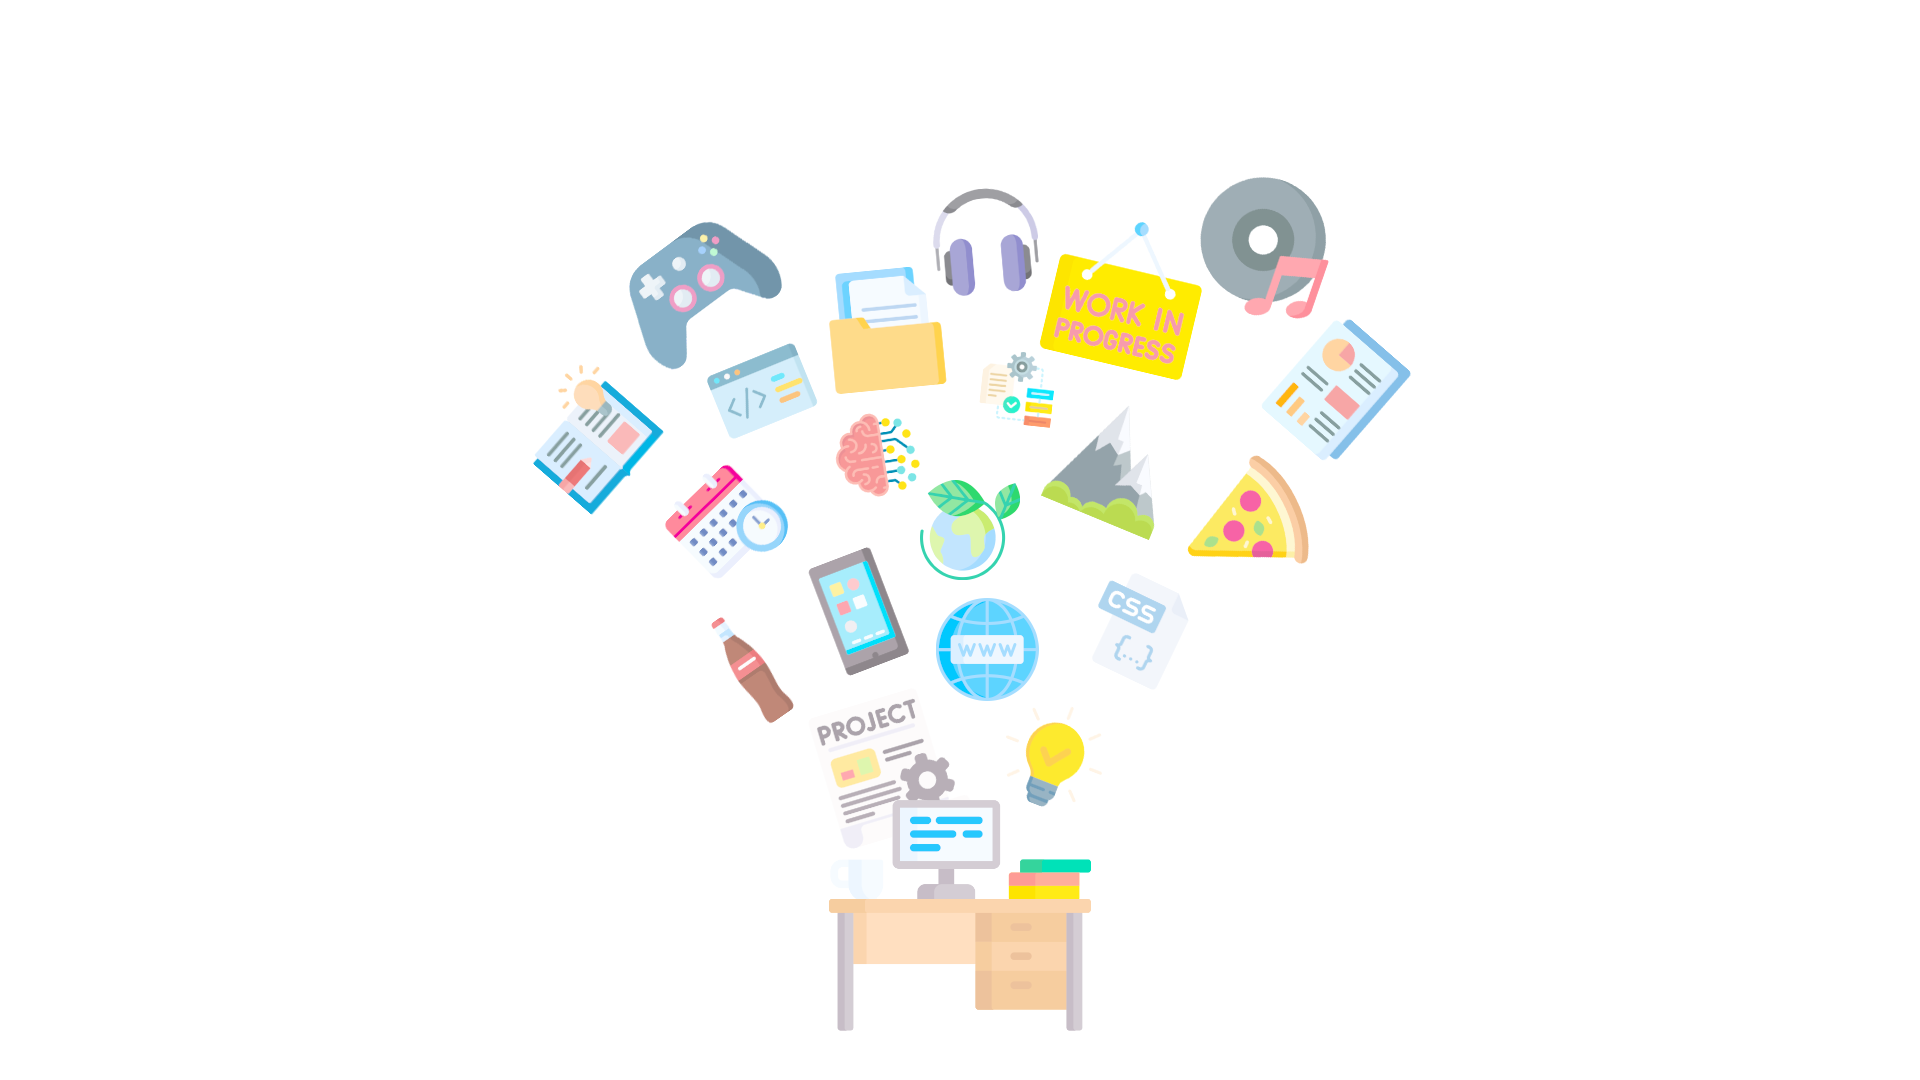
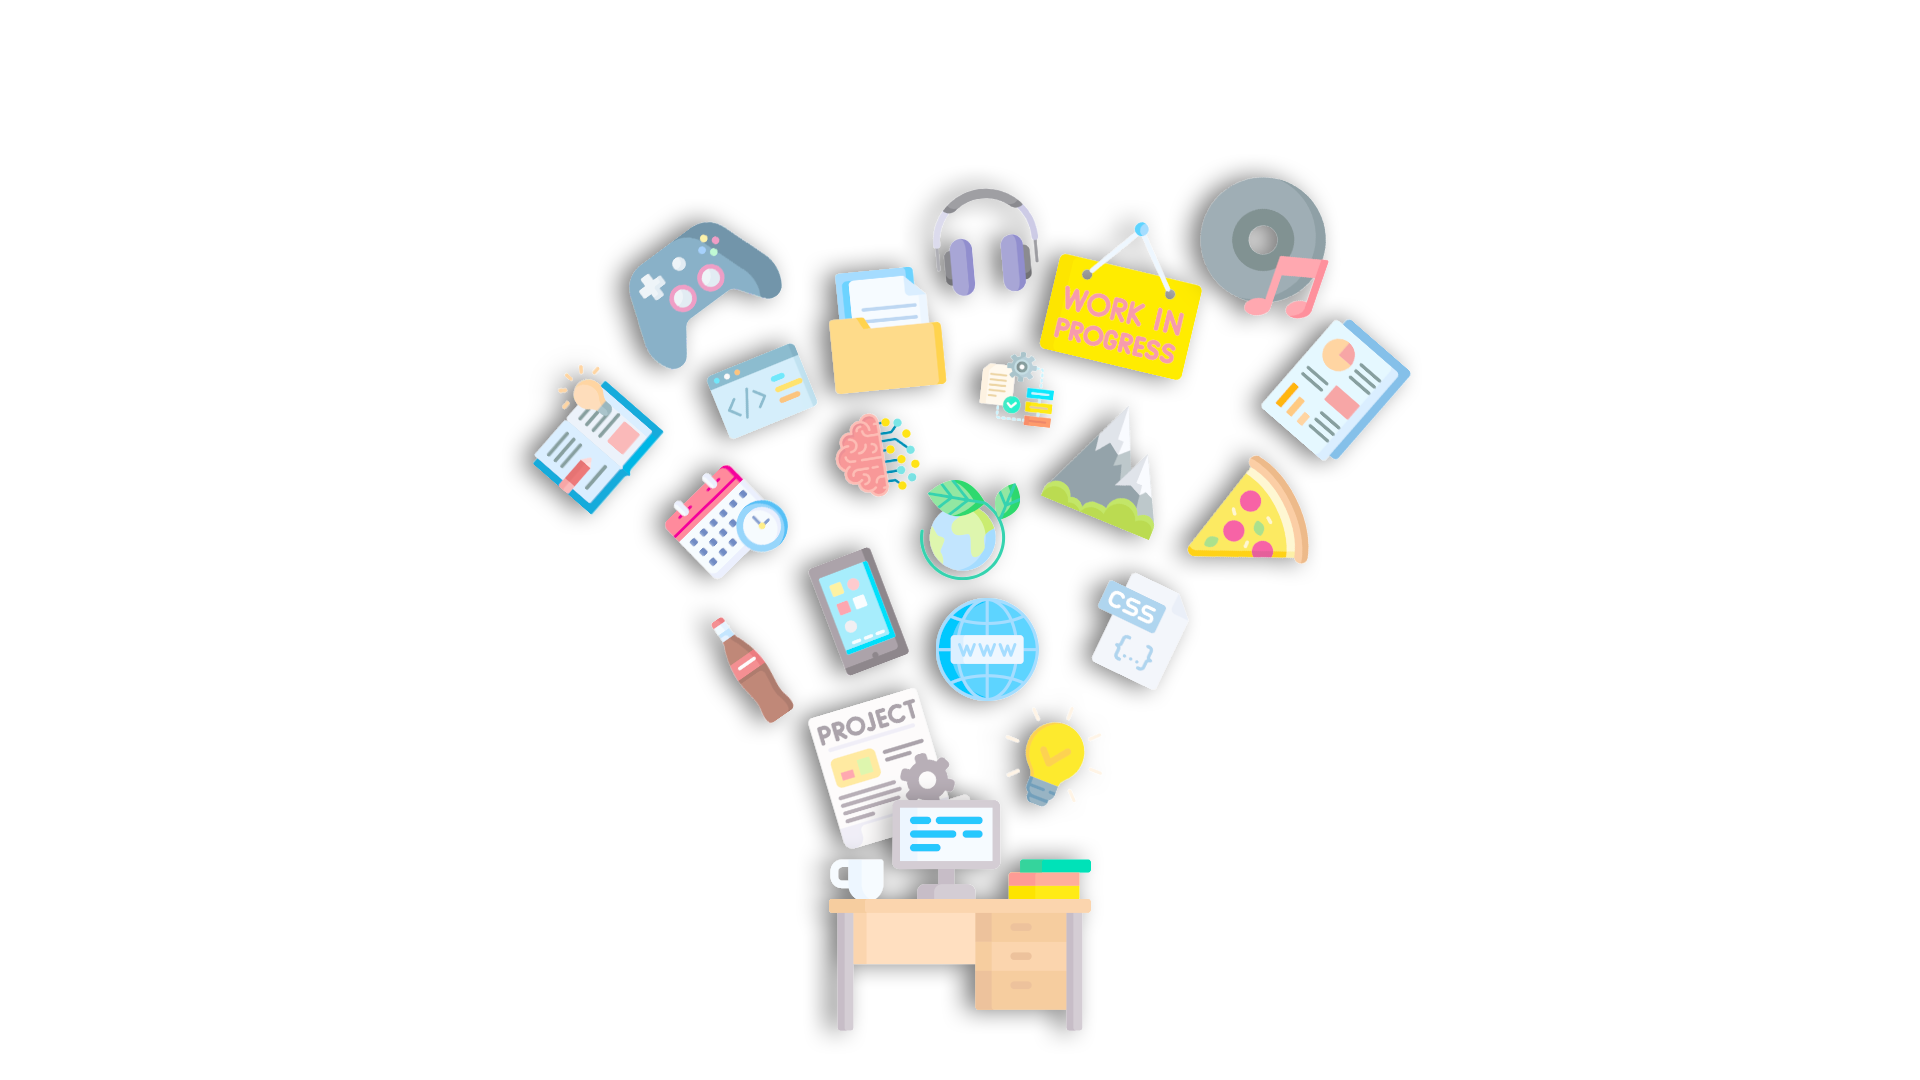
final adjustments

Changed region(s): [[0.25, 0.1528, 0.7188, 0.9472], [0.2812, 0.1833, 0.375, 0.3972]]

diff --git a/style3.css b/style3.css
@@ -28,9 +28,8 @@
 .desk-photo img {
   position: absolute;
   bottom: 18px;
-  margin: auto;
-  width: 100%;
-  height: auto;
+  margin-left: 10%;
+  height: 90%;
   text-shadow: 2px 2px 7px #424141;
 }
 
@@ -45,10 +44,14 @@
   padding: 0;
 }
 
+  .desk-folder img {
+
+  }
+
 .desk-folder {
-  padding-top: 20px;
+  padding-top: 10px;
   width: 100px;
-  height: 150px;
+  height: 130px;
   display: flex;
   flex-direction: column;
   justify-content: space-around;
@@ -113,6 +116,7 @@ a {
  position: relative;
  display: inline-block;
  font-family: 'Helvetica', sans-serif;
+ font-size: 30px;
 }
 
 .dropup-content {
@@ -123,7 +127,7 @@ a {
  min-width: 200px;
  box-shadow: 0px 8px 16px 0px rgba(0,0,0,0.5);
  z-index: 1;
- height: 400px;
+ height: 300px;
 }
 
 .dropup-content a {
@@ -154,10 +158,11 @@ a {
 
   .level p {
     display: none;
-    position: absolute;
-    left: 42%;
-    bottom: 15em;
+    position: fixed;
+    left: 20em;
+    bottom: 10em;
     border: 7px solid rgba(67, 67, 66, 0.8);
+    border-top:  20px solid rgba(67, 67, 66, 0.8);
     border-radius: 2px;
     background-color: #E8E7E7;
     box-shadow: 0px 8px 16px 0px rgba(0,0,0,0.5);
@@ -170,7 +175,6 @@ a {
     line-height: 50px;
     padding: 10px;
     }
-
 
   .gallery-background {
      background-color: rgb(141, 141, 141);

diff --git a/index.html b/index.html
@@ -2,7 +2,7 @@
 <html lang='en'>
   <head>
     <meta charset='UTF-8'/>
-    <link rel="icon" type="image/x-icon" href="../links-and-images/images/favicon.ico">
+    <link rel="icon" type="image/x-icon" href="images/favicon.ico">
     <meta name='viewport'
       content='width=device-width, initial-scale=1.0, maximum-scale=1.0' />
     <title>UPWeb</title>
